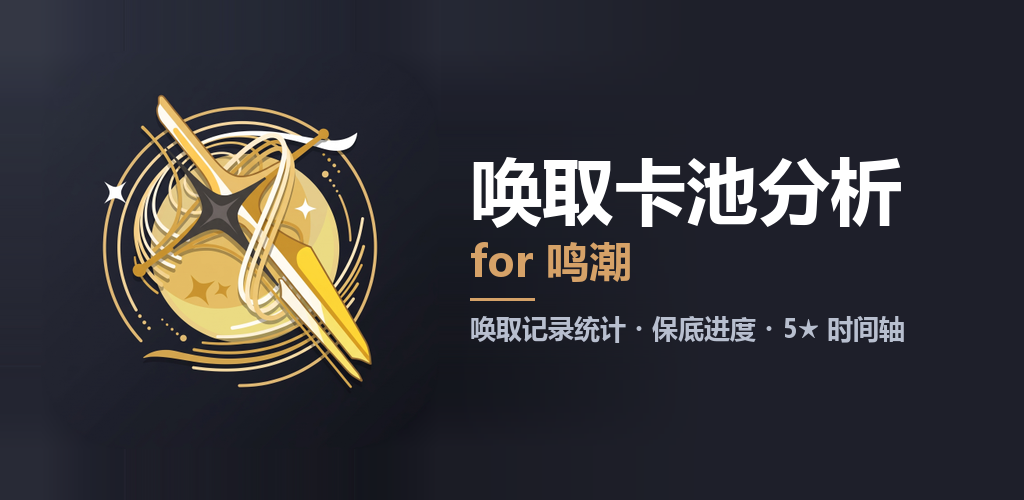
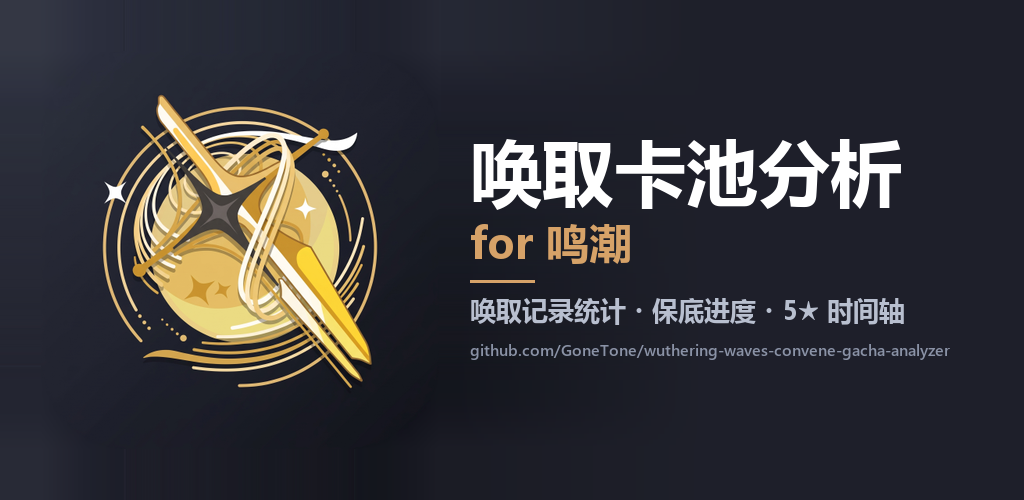
feat(play): show the GitHub URL on the feature graphic

Changed region(s): [[0.4375, 0.27, 0.9375, 0.72]]

diff --git a/tool/generate_feature_graphic.py b/tool/generate_feature_graphic.py
@@ -27,8 +27,10 @@ VARIANTS = {
 W, H = 1024, 500
 ICON_SIZE, ICON_X, ICON_Y = 400, 40, 50
 TEXT_X, TEXT_RIGHT_MARGIN = 470, 48
+REPO = 'github.com/GoneTone/wuthering-waves-convene-gacha-analyzer'
 GOLD = (0xD6, 0xA2, 0x68)
 MUTED = (0xB8, 0xBF, 0xCF)
+FAINT = (0x8A, 0x92, 0xA6)
 
 
 def background(icon: Image.Image) -> Image.Image:
@@ -56,22 +58,30 @@ def fit_font(draw: ImageDraw.ImageDraw, text: str, font: str, size: int, min_siz
 
 
 def render(base: Image.Image, title: str, sub: str, tagline: str, title_font: str, tagline_font: str) -> Image.Image:
-    """在背景右側畫出垂直置中的名稱、「for 遊戲名」、金色短線與標語。"""
+    """在背景右側畫出垂直置中的名稱、「for 遊戲名」、金色短線、標語與 GitHub 網址。"""
     img = base.copy()
     d = ImageDraw.Draw(img)
     max_w = W - TEXT_X - TEXT_RIGHT_MARGIN
     ft, ts = fit_font(d, title, title_font, 72, 40, max_w)
     fs = ImageFont.truetype(str(FONTS / title_font), int(ts * 0.6))
     fg, _ = fit_font(d, tagline, tagline_font, 26, 16, max_w)
-    tb, sb, gb = (d.textbbox((0, 0), s, font=f) for s, f in ((title, ft), (sub, fs), (tagline, fg)))
-    gap1, gap2 = 14, 34
-    y = (H - ((tb[3] - tb[1]) + gap1 + (sb[3] - sb[1]) + gap2 + (gb[3] - gb[1]))) // 2
+    fr, _ = fit_font(d, REPO, 'seguisb.ttf', 18, 12, max_w)
+    tb, sb, gb, rb = (
+        d.textbbox((0, 0), s, font=f) for s, f in ((title, ft), (sub, fs), (tagline, fg), (REPO, fr))
+    )
+    gap1, gap2, gap3 = 14, 34, 18
+    y = (
+        H
+        - ((tb[3] - tb[1]) + gap1 + (sb[3] - sb[1]) + gap2 + (gb[3] - gb[1]) + gap3 + (rb[3] - rb[1]))
+    ) // 2
     d.text((TEXT_X, y - tb[1]), title, font=ft, fill=(255, 255, 255))
     y += tb[3] - tb[1] + gap1
     d.text((TEXT_X, y - sb[1]), sub, font=fs, fill=GOLD)
     y += sb[3] - sb[1] + gap2
     d.line((TEXT_X, y - gap2 // 2, TEXT_X + 64, y - gap2 // 2), fill=GOLD, width=3)
     d.text((TEXT_X, y - gb[1]), tagline, font=fg, fill=MUTED)
+    y += gb[3] - gb[1] + gap3
+    d.text((TEXT_X, y - rb[1]), REPO, font=fr, fill=FAINT)
     return img
 
 
